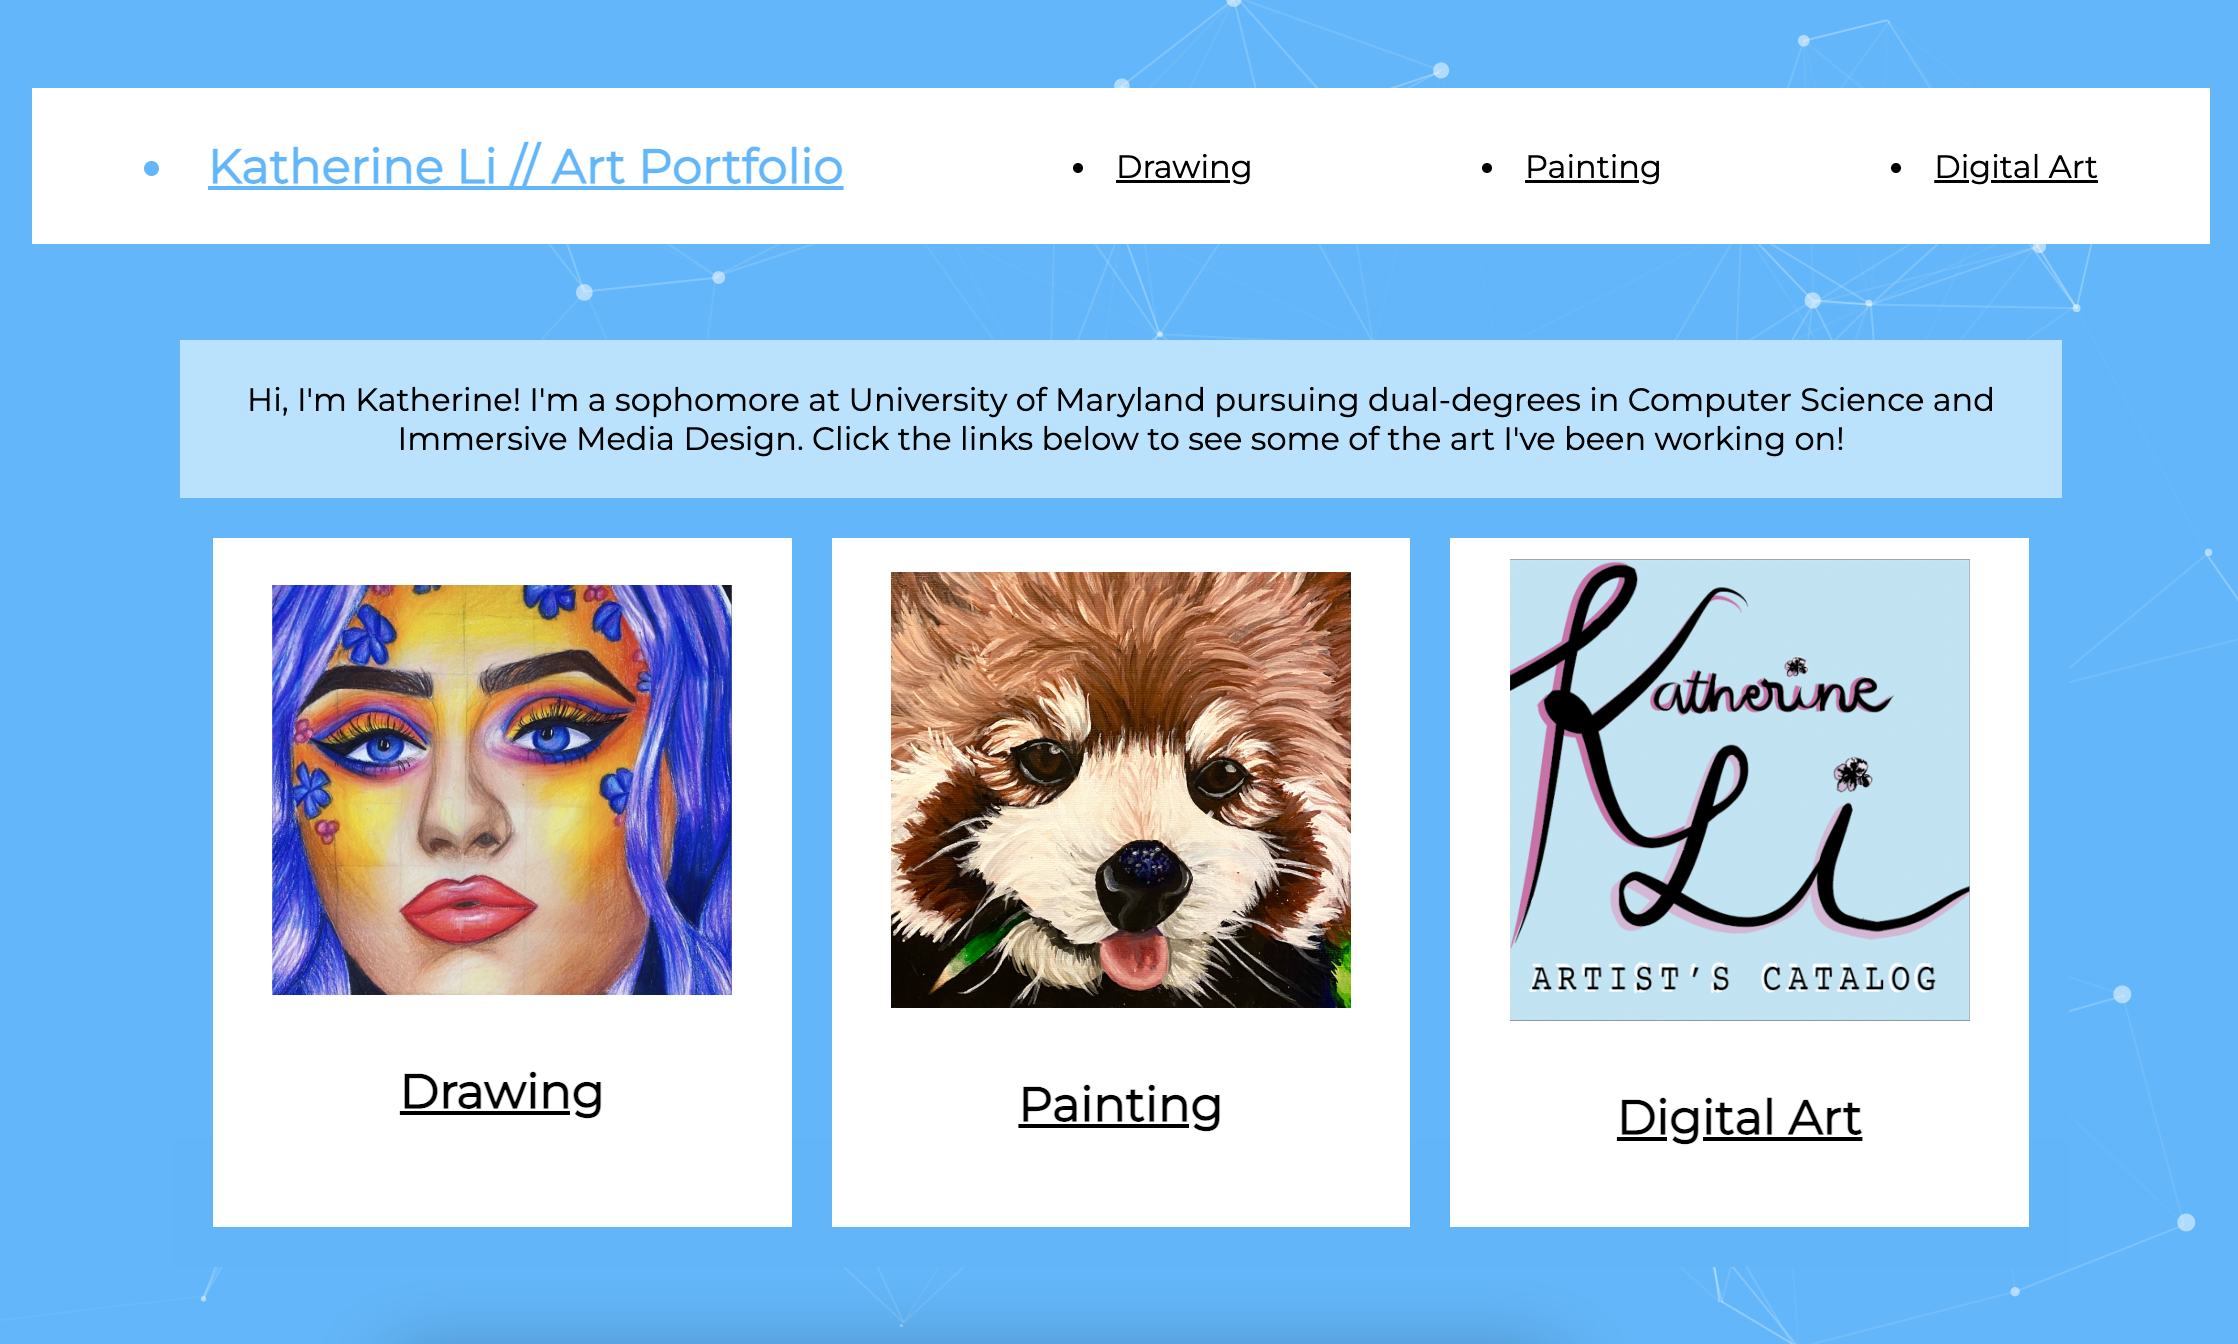
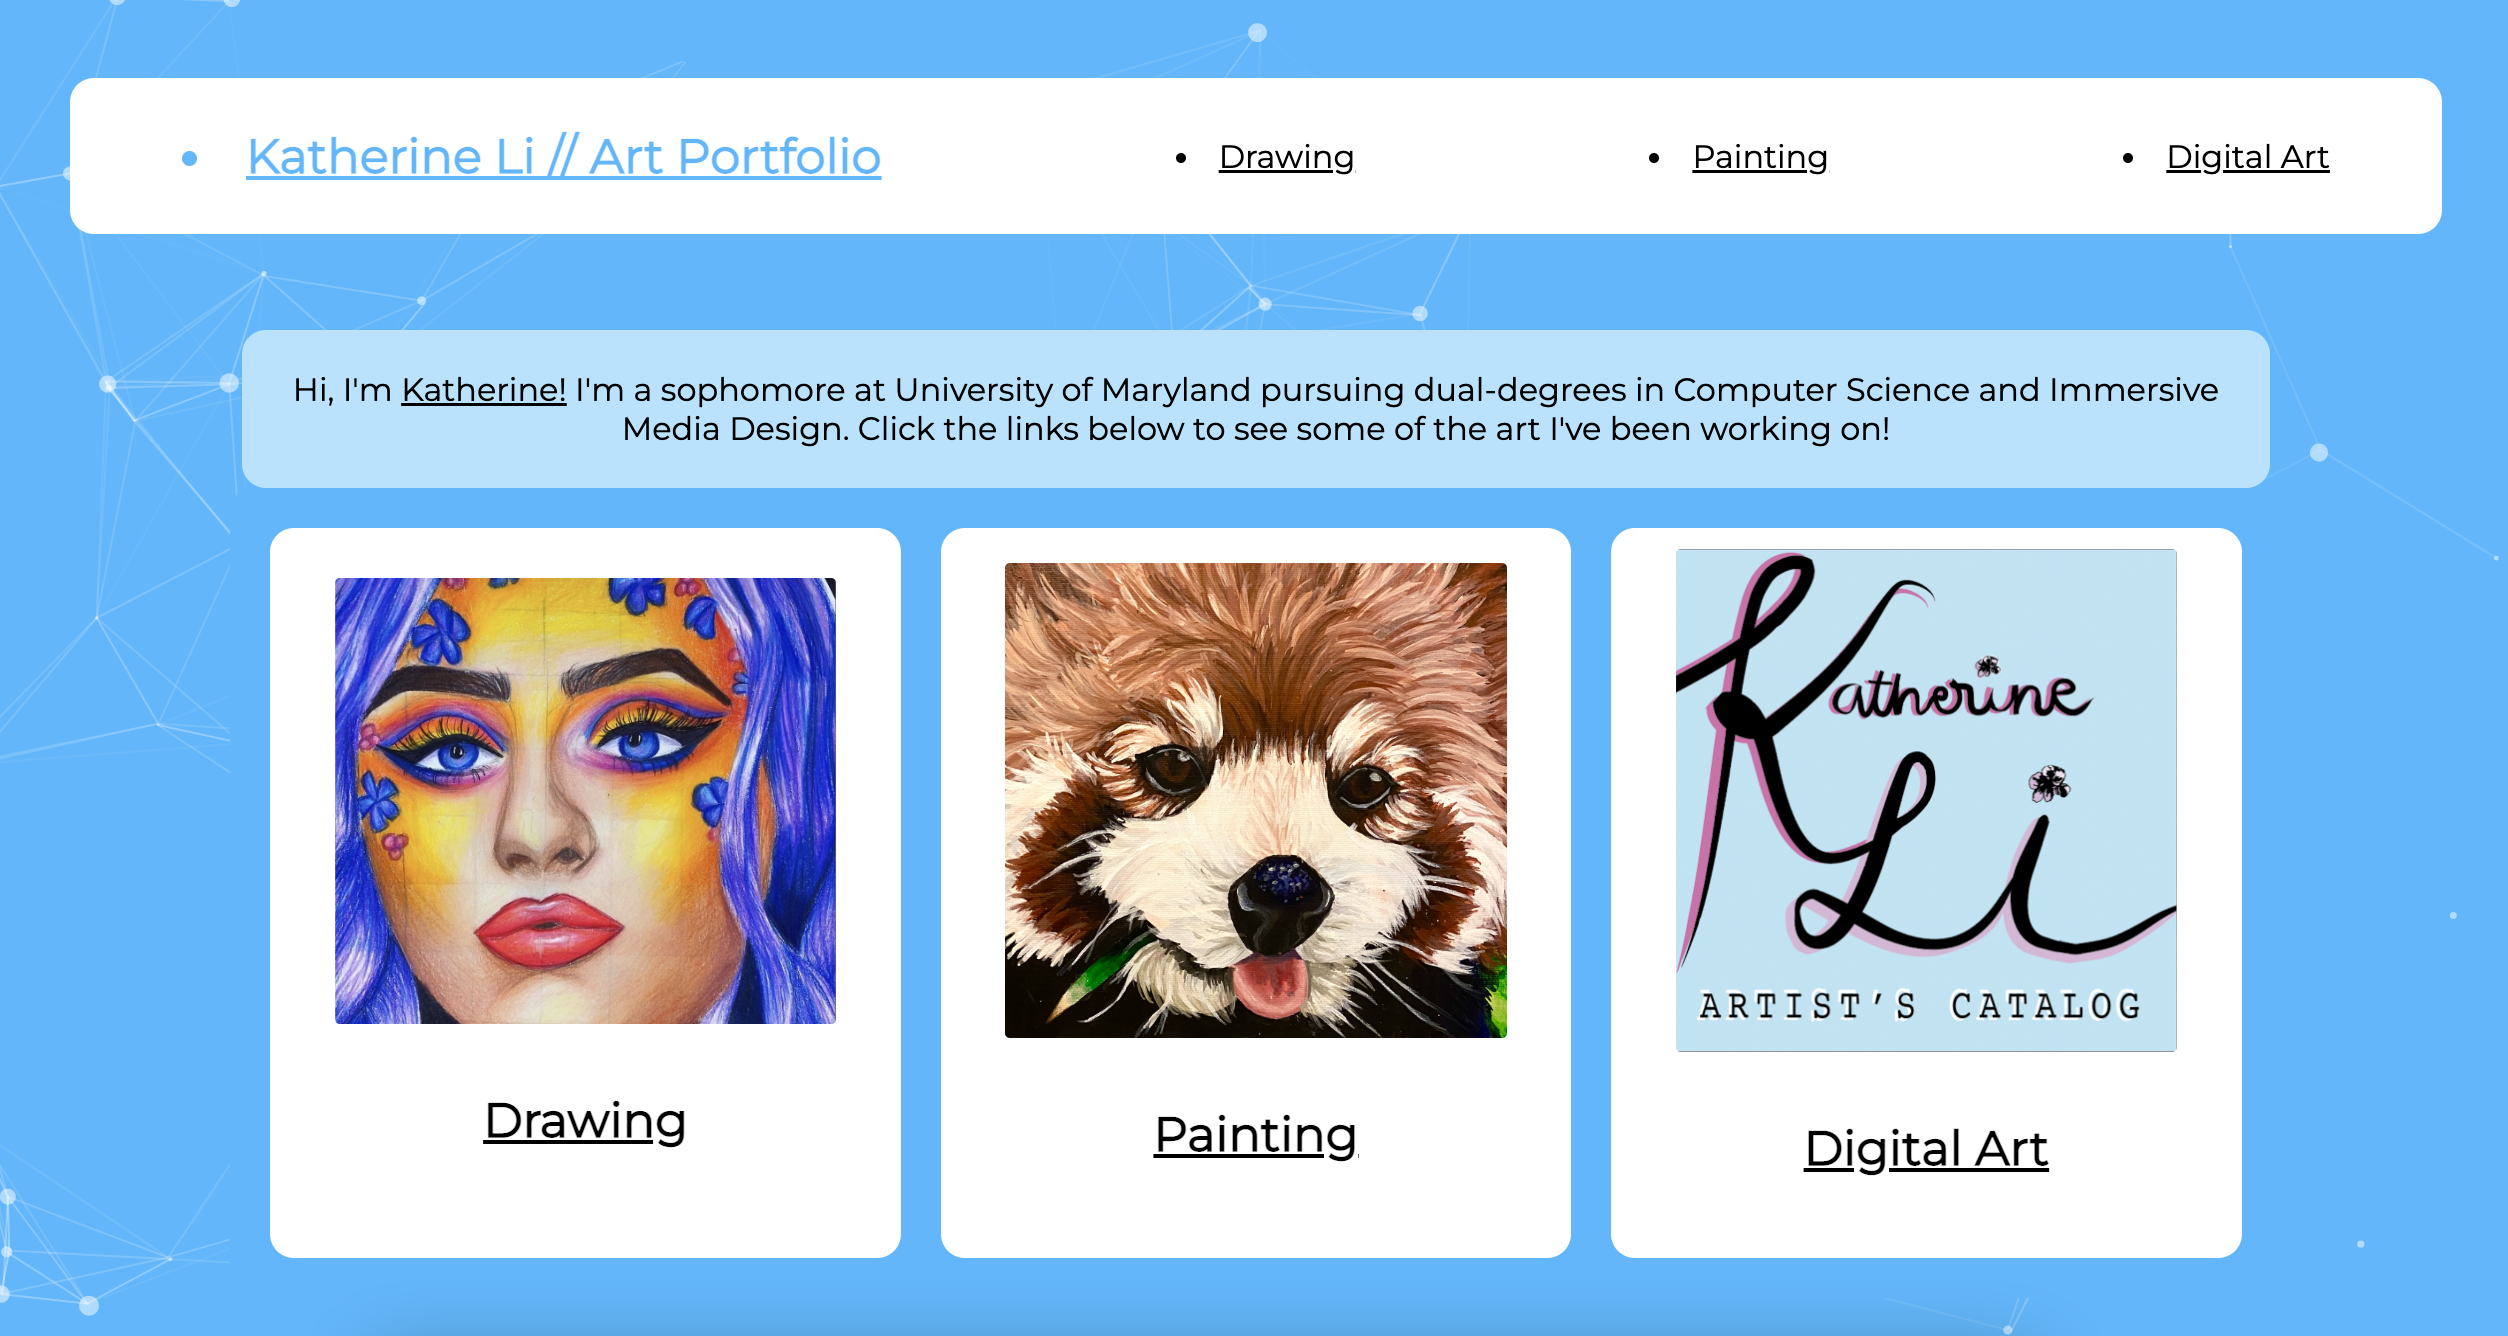
nav

diff --git a/style.css b/style.css
@@ -7,9 +7,9 @@
     --green: #78ab78;
     --dk-green: #2d542d;
     --tan: #f2ddc1;
-    --pink: #7b46bb;
-    --another-pink: #e3b9fd;
-    --lt-pink: #efe5f9;
+    --pink: #7f4ca9;
+    --another-pink: #cd9bed;
+    --lt-pink: #eaddf7;
 
   }
 
@@ -21,7 +21,7 @@ body {
     border-radius: 15px;
 }
 
-* p, .contact-info {
+* p {
     font-family: "Roboto", sans-serif;
     color: var(--dk-green);
     line-height: 1.5;
@@ -36,12 +36,12 @@ body {
 
 * h1, h2 {
     font-family: "Merriweather", sans-serif;
-    line-height: 0.25rem;
 }
 
-* a:hover, #title a:hover, .flip-card-back a:hover, .bio a:hover {
+.flip-card-back a:hover, .bio a:hover {
     color: var(--pink);
 }
+
 
 #particles-js {
 	width: 100%;
@@ -53,35 +53,58 @@ body {
 	z-index: -5;
 }
 
-  /* nav bar */
+/* nav bar + contact */
 nav {
-    top: 0;
-    left: 0;
     z-index: 1;
 	height: 30px;
-    display: flex;
+    top: 8%;
+    left: 50%;
+    transform: translate(-50%, -50%);
     align-items: center;
-    justify-content: space-between;
-    padding: 1.5rem 3.5rem;
+    justify-content: space-around;
+    padding: 1rem;
     background-color: var(--green);
-	margin: 2rem;
-    font-family: "Merriweather";
     border-radius: 15px;
+    width: 80%;
+    max-width: 980px;
+    position: fixed;
   }
 
-nav, nav a {
+nav a, .contact a {
+	text-align: center;
+	border: 10px solid;
+    border-radius: 15px;
+    margin: 1rem;
+    
+}
+
+nav a {
+    font-family: "Merriweather", sans-serif;
+    background-color: var(--green);
+    border-color: var(--green);
     color: white;
-    font-size: 20px;
-    text-decoration: none;
 }
 
-#title, #title a {
-    color: var(--another-pink);
-    font-weight: bold;
-    font-size: 20px;
+nav a:hover, .contact a:hover, #title:hover {
+    background-color: var(--another-pink);
+    border-color: var(--another-pink);
 }
 
-/* bio + contact body */
+.contact a {
+	width: 115px;
+    margin-bottom: 2rem;
+    font-family: "Roboto", sans-serif;
+    background-color: white;
+    border-color: white;
+}
+
+#title {
+    background-color: var(--lt-pink);
+    border-color: var(--lt-pink);
+    color:#2d542d;
+}
+
+/* bio */
 .bio {
 	max-width: 1000px;
 	margin: auto;
@@ -105,7 +128,7 @@ nav, nav a {
     border-radius: 25px;
     color: white;
     align-items: center;
-    padding: 0.5rem;
+    padding: 0.25rem;
 }
 
 /* cards */
@@ -126,7 +149,6 @@ nav, nav a {
     margin: auto;
     margin-bottom: 3rem;
     display: block;
-    height: 250px;
 }
 
 .flip-card-front img {
@@ -158,6 +180,9 @@ nav, nav a {
     border-radius: 16px;
 }
 
+.experience .flip-card {
+    height: 250px;
+}
 
 .cs .flip-card-front, .imd .flip-card-front {
     background-color: var(--lt-pink);
@@ -173,6 +198,10 @@ nav, nav a {
 
 .flip-card-front p {
     color: var(--green);
+}
+
+.experience .flip-card-front p {
+    color: white;
 }
 
 .flip-card-back {
@@ -193,27 +222,10 @@ nav, nav a {
     color: var(--another-pink);
 }
 
-
 .container {
     display: grid;
     justify-content: center;
     align-content: center;
     grid-auto-flow: column;
   }
-
-  /* contact */
-  .contact-info {
-	width: 125px;
-	margin: 1.25rem;
-    margin-bottom: 2rem;
-	text-align: center;
-	background-color: white;
-	border: 5px solid white;
-    border-radius: 15px;
-}
-
-.contact-info:hover {
-    background-color: var(--lt-pink);
-    border-color: var(--lt-pink);
-}
 

diff --git a/index.html b/index.html
@@ -14,18 +14,20 @@
 
     <!-- nav bar -->
     <nav id="nav-bar">
-        <li id="title"> <a href = "#nav-bar"> Katherine Li // Portfolio </a></li></h1>
-        <li><a href = "#cs-title"> Computer Science </a></li>
-        <li><a href = "#imd-title"> Immersive Media Design </a></li>
-        <li><a href = "#experience-title"> Experience </a></li>
+        <a href = "#nav-bar" id="title"> Katherine Li // Portfolio </a>
+        <a href = "#cs-title" > Computer Science </a>
+        <a href = "#imd-title"> Immersive Media Design </a>
+        <a href = "#experience-title"> Experience </a>
+        <a href = "#contact-title"> Contact </a>
    </nav>
-   <div id="#top-container"> 
+
+<br><br><br><br><br><br>
         <div class="bio"> 
                 <p> I'm Katherine, a sophomore at the University of Maryland pursuing dual-degrees in <a href = #cs-title class="bio-link"> Computer Science </a> and <a href = #imd-title class="bio-link" >Immersive Media Design</a> currently working as a computational neuroscience research assistant. Scroll to see what I've been working on or <a href="#contact-title"> get in touch</a>! 
                 </p>
         </div>
         <!-- insert contact info here-->
-    </div>
+
    <br>  <br>
 
    <!-- cs projects-->
@@ -148,17 +150,18 @@
     <div class="experience"> 
         <h2 class="header" id="experience-title" > Experience </h2>
         <br> <br>
-             <div class="flip-card" id="exp-card"> 
+             <div class="flip-card"> 
                  <div class="flip-card-inner">
                      <div class="flip-card-front"> 
-                        <br> <br> <br>
-                         <h2> Research Assistant </h2>
-                         <p> University of Maryland: Computational Cognitive Neuroscience and Psychiatry Lab
+                        <br> 
+                         <h2> Machine Learning Research Assistant </h2> 
+                         <p> UMD Computational Cognitive Neuroscience and Psychiatry Lab
                             </p>
                      </div>
                      <div class="flip-card-back" >
                          <p> 
-                             Computationally modeling information processing in decision making by developing and utilizing machine learning classifiers using Python libraries to analyze EEG data from recognition memory tasks
+                            Computationally modeled information processing in decision making by developing and implementing various machine learning classifiers in Python to analyze EEG data from recognition memory tasks
+                            
                          </p>
                      </div>
                  </div>
@@ -170,9 +173,9 @@
     <div class="contact">
         <h2 class="header" id="contact-title"> Contact </h2>
         <div class="container">
-                <a class="contact-info" href="mailto:kli17@terpmail.umd.edu"> Email </a>
-                <a class="contact-info" href="https://linkedin.com/in/kli17"> Linkedin</a>
-                <a class="contact-info" href="https://github.com/kath3rine"> GitHub </a>
+                <a href="mailto:kli17@terpmail.umd.edu"> Email </a>
+                <a href="https://linkedin.com/in/kli17"> Linkedin</a>
+                <a href="https://github.com/kath3rine"> GitHub </a>
         </div>
     </div>
     
